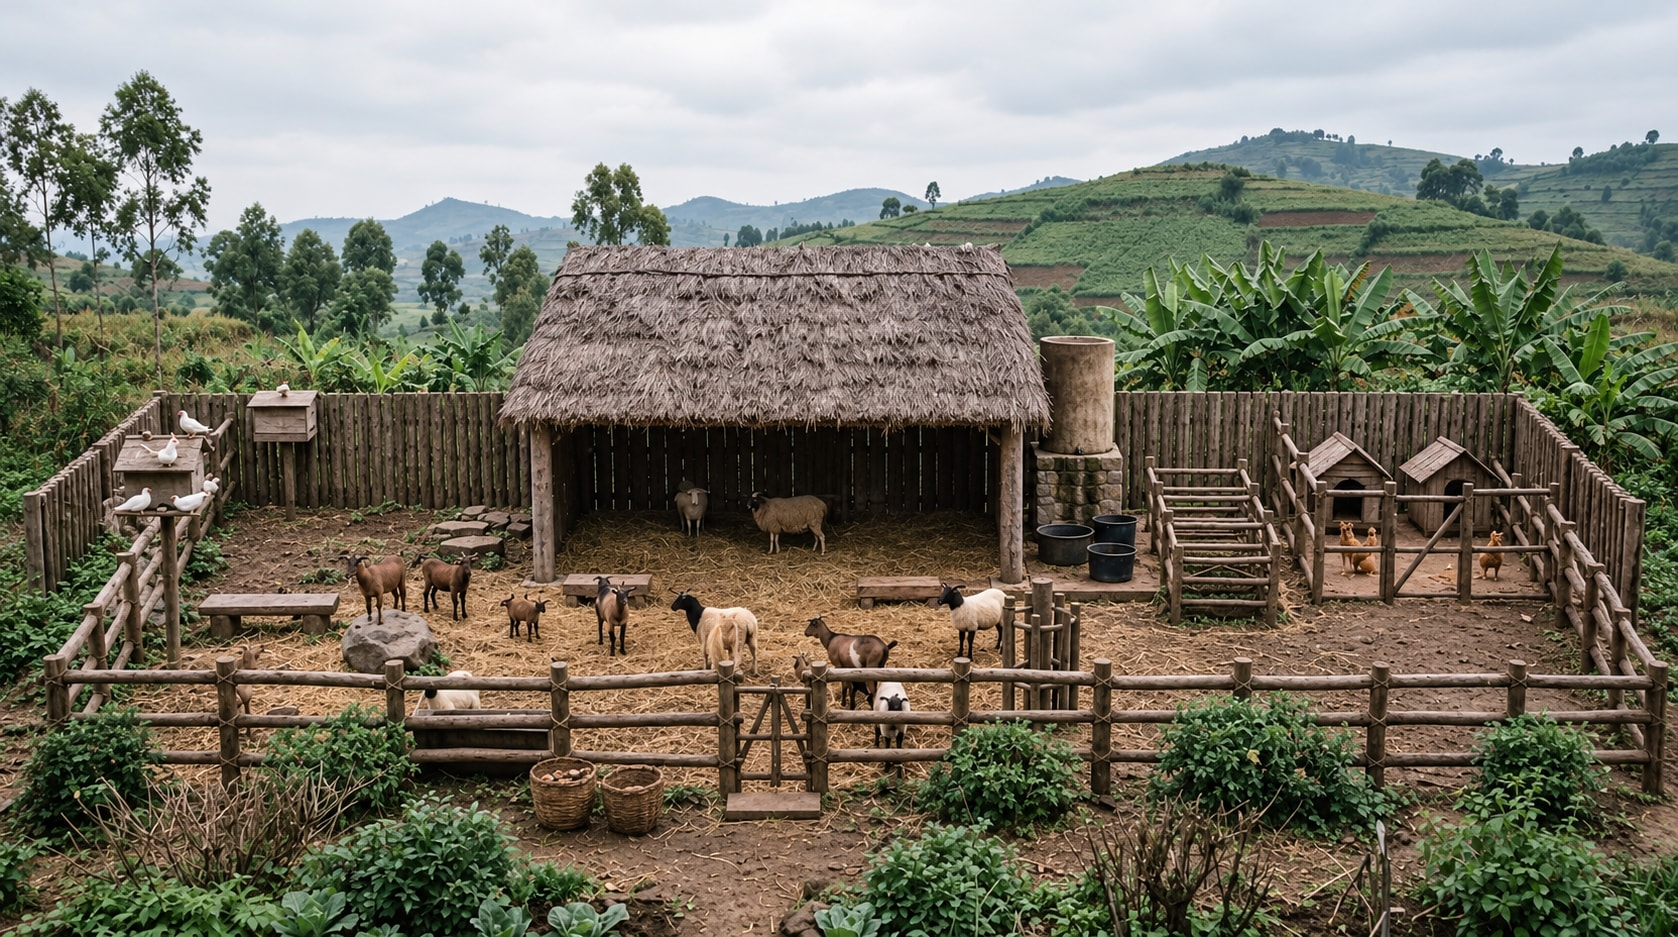
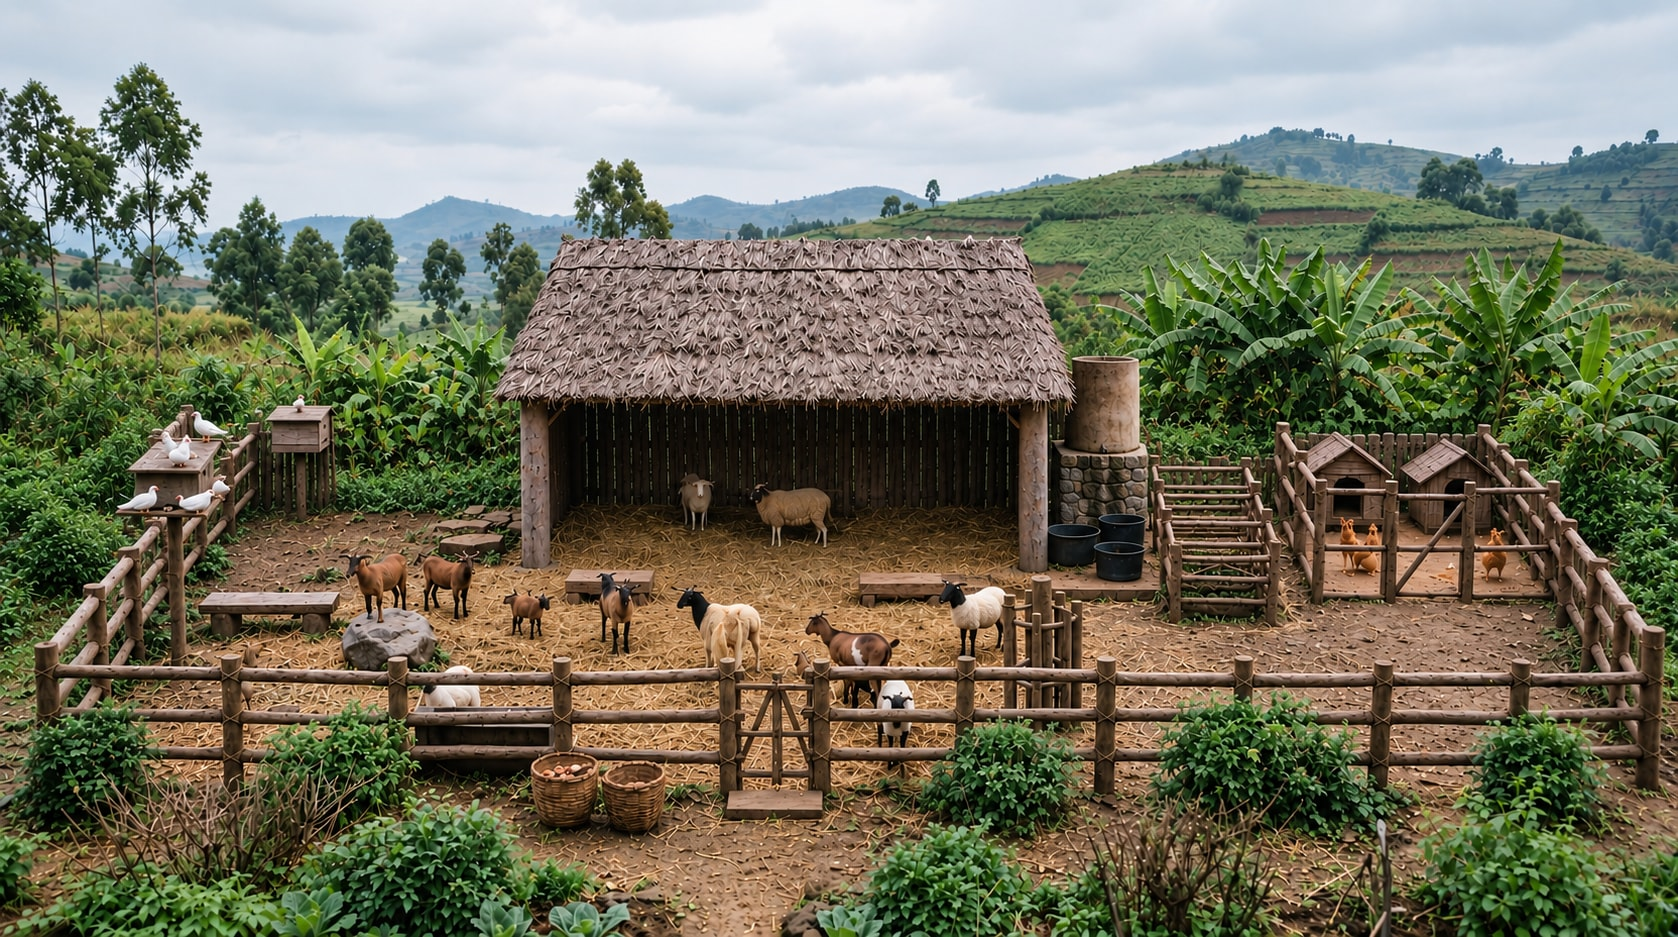
feat(livestock): the hero is the founder's second Nano Banana take
The same yard open on the hills without the palisade, served at 1678 x 937.

Claude-Session: https://claude.ai/code/session_01S6J7HfcfzMCDbDDKUuUjeQ

diff --git a/src/app/en/livestock/page.tsx b/src/app/en/livestock/page.tsx
@@ -21,12 +21,12 @@ export default function LivestockPage() {
   return (
     <main className="w-full flex-1">
       {/* First screen: the founder's Nano Banana remake (2026-10-29, D-046) of the reference photo on the farm: the shed,
-          the lashed rails and the baskets of the photo, set in Rwanda's terraced green hills with eucalyptus and banana
-          plants, the herd in the yard and a sheep in the shed, the dovecote, the cats' house, the tank, the compost bays
-          and the dogs' kennels. Served at its native 1678 x 937 (original: assets/livestock/hero-gemini.png). */}
+          the lashed rails and the baskets of the photo, the yard open on Rwanda's terraced green hills with eucalyptus
+          and banana plants, the herd in the yard and two sheep in the shed, the dovecote, the cats' house, the tank, the
+          compost bays and the dogs' kennels. Served at its native 1678 x 937 (original: assets/livestock/hero-gemini.png). */}
       <PageHero src={`${D}/render/livestock-hero.jpg`} width={1678} height={937} className="bg-[#b9bdb4]" imgClassName="object-[55%_55%]"
         title="Goats and sheep on open pasture"
-        alt="A livestock yard on a Rwandan hillside under a soft grey sky: a shed with a shaggy thatched roof, goats and black-headed sheep on straw behind a rail fence lashed with rope, a sheep in the shed, a dovecote with white doves and a cats’ house on posts at the left, a water tank and two dog kennels at the right, woven baskets by the gate, a palisade of upright poles, banana plants and eucalyptus, and terraced green hills behind." />
+        alt="A livestock yard on a Rwandan hillside under a soft grey sky: a shed with a shaggy thatched roof and two sheep inside, goats and black-headed sheep on straw behind a rail fence lashed with rope, a dovecote with white doves and a cats’ house on posts at the left, a water tank and two dog kennels at the right, woven baskets by the gate, banana plants and eucalyptus round the yard, and terraced green hills behind." />
 
       {/* 2D, full screen: the house's plan (src/components/livestock/livestock-plan.tsx), in the text colour. */}
       <DrawingSection id="plans" title="2D">

diff --git a/src/lib/design-blur.generated.ts b/src/lib/design-blur.generated.ts
@@ -10,7 +10,7 @@ export const DESIGN_BLUR: Record<string, string> = {
[8 lines of base64/hex data omitted]

diff --git a/study/execution/decision-log.md b/study/execution/decision-log.md
@@ -167,4 +167,4 @@ Context: the founder asked for the herd's building to be a shed like the one in 
 Context: the founder asked for the shed to look exactly like the one in the reference photo, with one sheep inside. Decision: `src/components/livestock/livestock.json` makes the shed 4.4 x 3.0 m (13 m2, 10 head at 1.2 m2 [A]) with two heavy corner posts on the open front, each braced to the eaves beam, a back and an east end of dark upright boards, and the west end open behind one rail. Inside, as in the photo: one sheep, a straw bale in the middle, and a plank table with a basket of hay over a lidded crate that locks for the feed. The 3D now shows the whole thatch, steep, shaggy and grey-brown with a ragged fringe and open gable ends, and looks down at 26 degrees instead of 38, low enough to see under the eaves into the shed as the photo does; this replaces D-044's rafters-only roof. At 13 m2 the shed holds the 10 head with nothing to spare: kids born in it need the yard by day.
 
 **D-046 · 2026-10-29 · The /en/livestock hero is the founder's Nano Banana remake on the farm.**
-Context: the founder generated the handoff's remake (`~/Desktop/livestock-nano-banana`) and asked to use it. Decision: `public/designs/livestock/render/livestock-hero.jpg` is that image, served at its native 1678 x 937 (no upscale; original kept at `assets/livestock/hero-gemini.png`, gitignored). It keeps the reference photo's shed, rails and baskets and sets them in Rwanda's terraced green hills with eucalyptus and banana plants, with the yard's herd, the sheep in the shed, the dovecote, the cats' house, the tank, the compost bays and the dogs' kennels: it replaces D-042's photo, whose temple buildings were not Rwanda's, and settles D-042's open question of the photo's source. It is a concept image of the planned yard, not a photograph of the site, which is unconfirmed; like the studio's hero (D-018) it carries no badge.
+Context: the founder generated the handoff's remake (`~/Desktop/livestock-nano-banana`) and asked to use it, then swapped in a second take the same day ("Rustic Livestock Yard in Hilly Countryside"), the yard open on the hills without the palisade. Decision: `public/designs/livestock/render/livestock-hero.jpg` is that image, served at its native 1678 x 937 (no upscale; original kept at `assets/livestock/hero-gemini.png`, gitignored). It keeps the reference photo's shed, rails and baskets and sets them in Rwanda's terraced green hills with eucalyptus and banana plants, with the yard's herd, the sheep in the shed, the dovecote, the cats' house, the tank, the compost bays and the dogs' kennels: it replaces D-042's photo, whose temple buildings were not Rwanda's, and settles D-042's open question of the photo's source. It is a concept image of the planned yard, not a photograph of the site, which is unconfirmed; like the studio's hero (D-018) it carries no badge.
